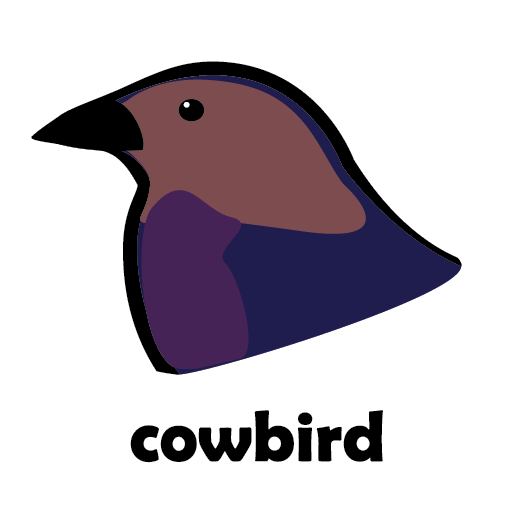
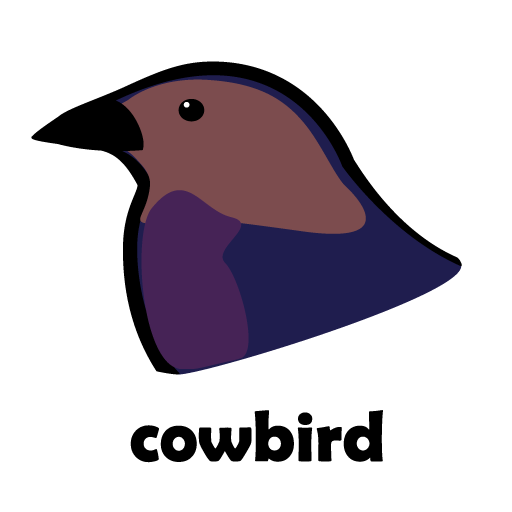
Update docs site
* Fix cringe-worthy "lays eggs" statement from Claude with something a
  bit less gross feeling
* Updating all icons from the new ones from Max

diff --git a/docs/index.html b/docs/index.html
@@ -248,7 +248,7 @@ footer img { width: 40px; height: 40px; background: #fff; border-radius: 10px; p
   <div class="wrap">
     <img class="hero-icon" src="icon-512.png" alt="Cowbird icon">
     <h1>cowbird</h1>
-    <p class="tagline">A password manager that lays its eggs in someone else's nest.</p>
+    <p class="tagline">A password manager that stores it's data in Hashicorp Vault.</p>
     <p class="hero-sub">
       An end-to-end encrypted password manager written in Go that uses
       <a href="https://www.vaultproject.io/">HashiCorp Vault</a> as its storage backend.